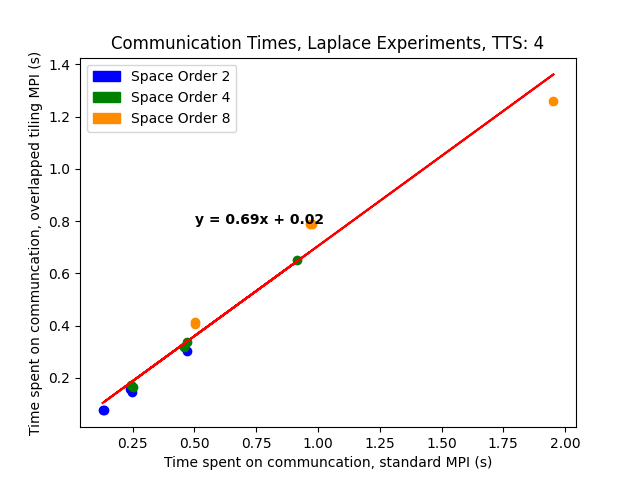
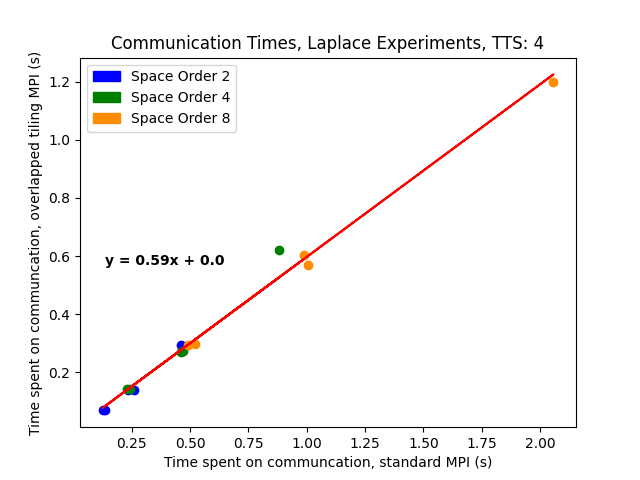
Communication lines

diff --git a/results/yam/postprocessing.py b/results/yam/postprocessing.py
@@ -108,8 +108,16 @@ def plot_comm_time_lines():
 
         m, c = np.polyfit(standard_comm_times, overlapped_comm_times, deg=1)
         plt.plot(standard_comm_times, standard_comm_times * m + c, color='red')
+        
+        #standard_comm_times_no_so = np.array(standard_csv.loc[standard_csv['space_order'] != 8]['haloupdate0'])
+        #overlapped_comm_times = overlapped_csv.loc[(overlapped_csv['time_tile_size'] == tts) & (overlapped_csv['space_order'] != 8)]
+        #overlapped_comm_times = overlapped_comm_times.groupby(['num_ranks', 'space_order', 'time_tile_size', 'time', 'x_size', 'y_size', 'z_size']).min().reset_index()
+        #overlapped_comm_times = np.array(overlapped_comm_times['haloupdate0'])
+        #m, c = np.polyfit(standard_comm_times_no_so, overlapped_comm_times, deg=1)
+        #plt.plot(standard_comm_times_no_so, standard_comm_times_no_so * m + c, color='blue')
+
         plt.legend(handles=handles)
-        plt.text(standard_comm_times[10], overlapped_comm_times[-4], 'y = ' + str(round(m, ndigits=2)) + "x + " + str(round(c, ndigits=2)), size=10, weight="bold")
+        plt.text(standard_comm_times[2], overlapped_comm_times[-1], 'y = ' + str(round(m, ndigits=2)) + "x + " + str(round(c, ndigits=2)), size=10, weight="bold")
         plt.savefig(graphs_folder + "comm_times_line_" + str(tts) + "tts")
 
 plot_elapsed_times_bars()
